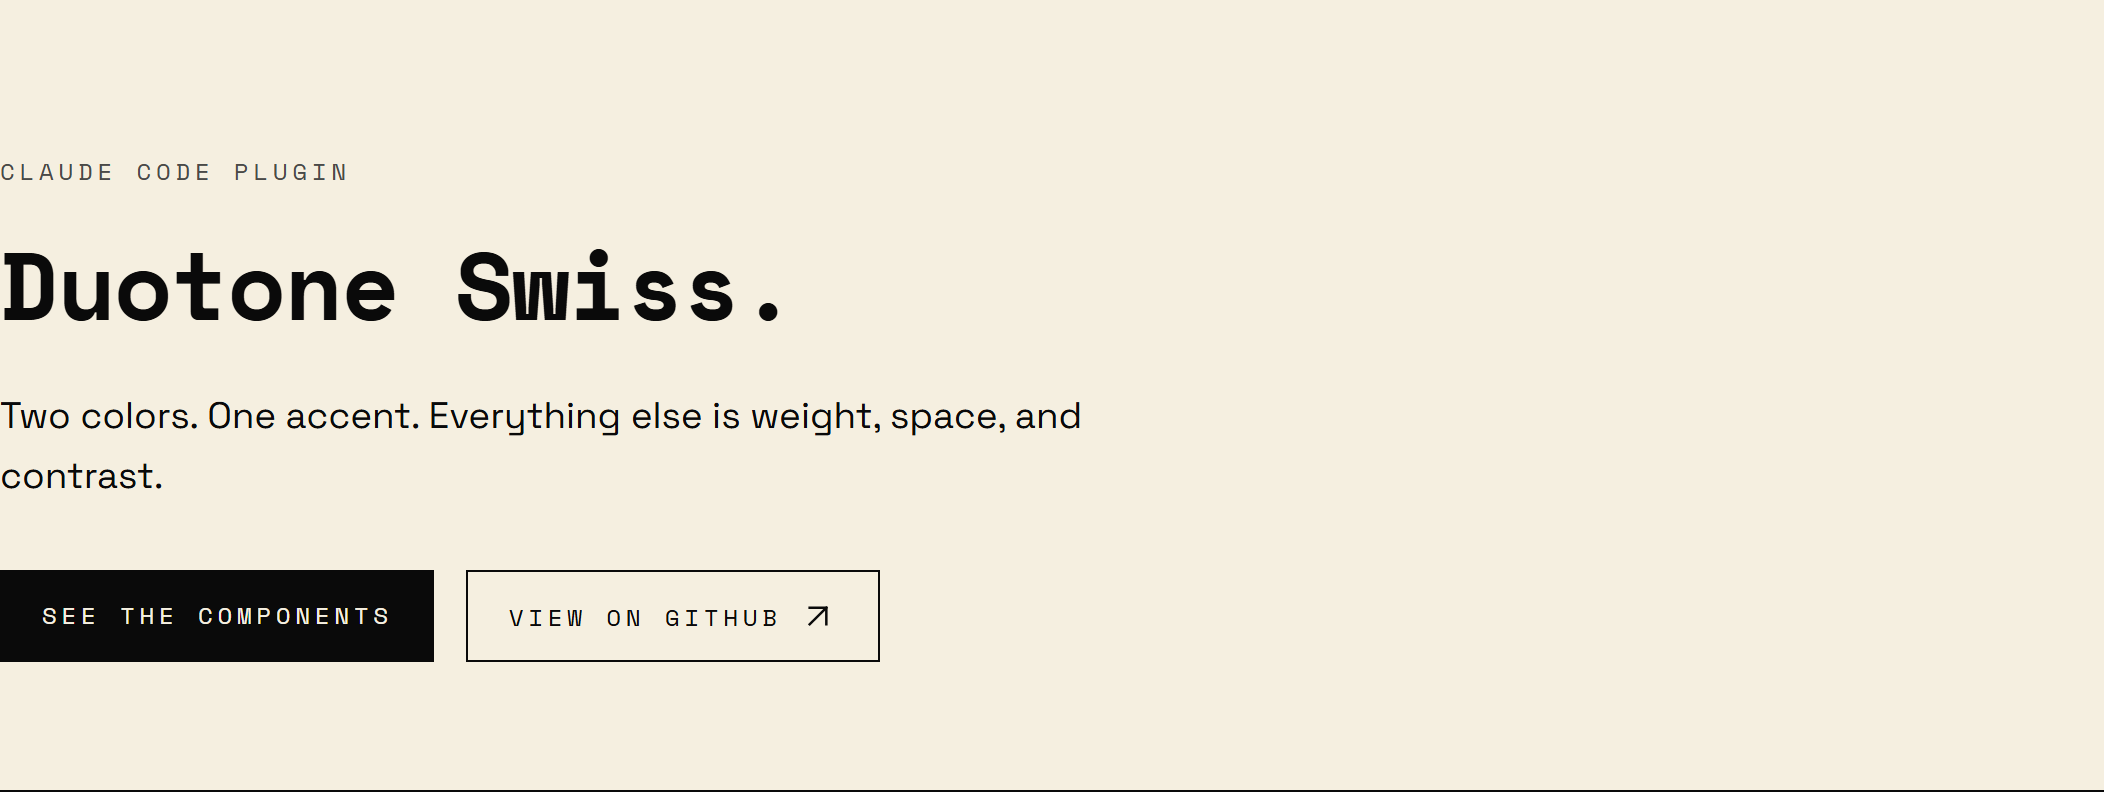
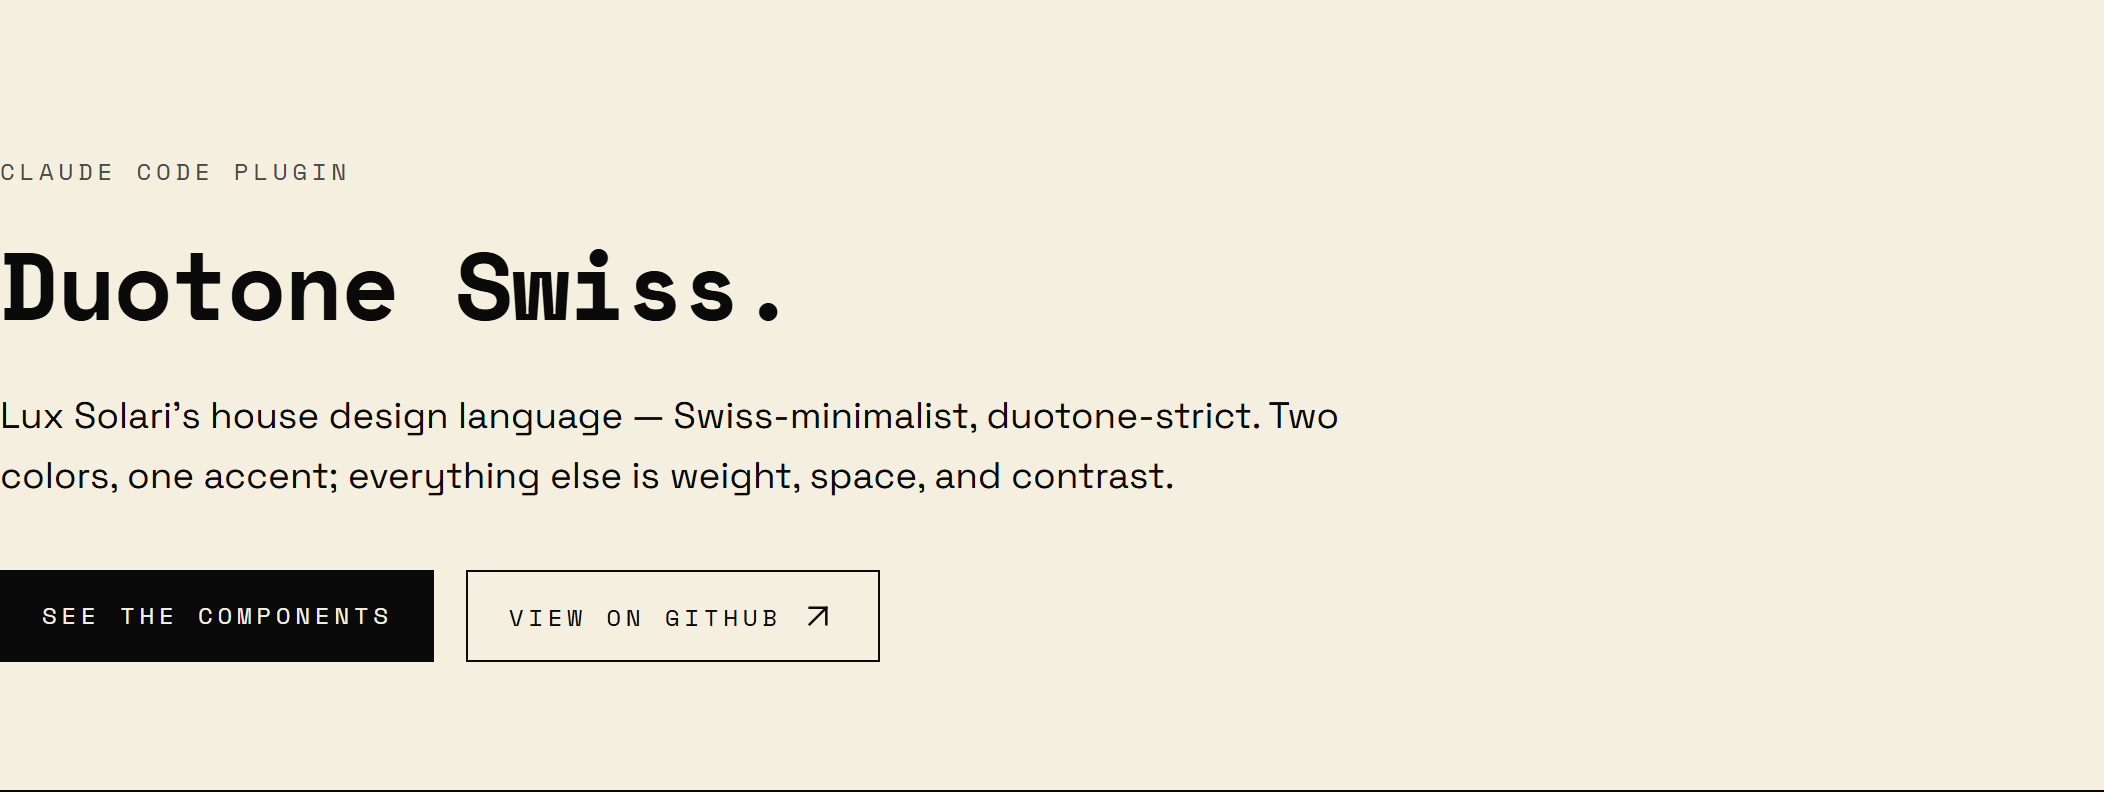
docs: frame hero as Lux Solari's house design language (Swiss register)
Restore the original framing — the sub-deck now names it as Lux Solari's
house design language, Swiss-minimalist and duotone-strict, alongside the
premise line. Relax the verifier's author-name guard from 'exactly once' to
'at least once' since the house is now credited in both hero and footer.
Regenerate hero screenshots.

Changed region(s): [[0.0309, 0.5758, 0.5561, 0.6364], [0.0, 0.5152, 0.6488, 0.5455]]

diff --git a/docs/index.html b/docs/index.html
@@ -92,8 +92,9 @@
       <section id="hero" style="border-top:none;">
         <p class="label">Claude Code plugin</p>
         <h1 style="margin:20px 0 0;">Duotone Swiss.</h1>
-        <p style="font-size:1.15rem; max-width:52ch; margin:24px 0 0; color:var(--foreground);">
-          Two colors. One accent. Everything else is weight, space, and contrast.
+        <p style="font-size:1.15rem; max-width:60ch; margin:24px 0 0; color:var(--foreground);">
+          Lux Solari's house design language — Swiss-minimalist, duotone-strict. Two
+          colors, one accent; everything else is weight, space, and contrast.
         </p>
         <div style="display:flex; gap:16px; margin-top:32px; font-family:'Space Mono',monospace;
                     text-transform:uppercase; letter-spacing:0.2em; font-size:0.75rem;">